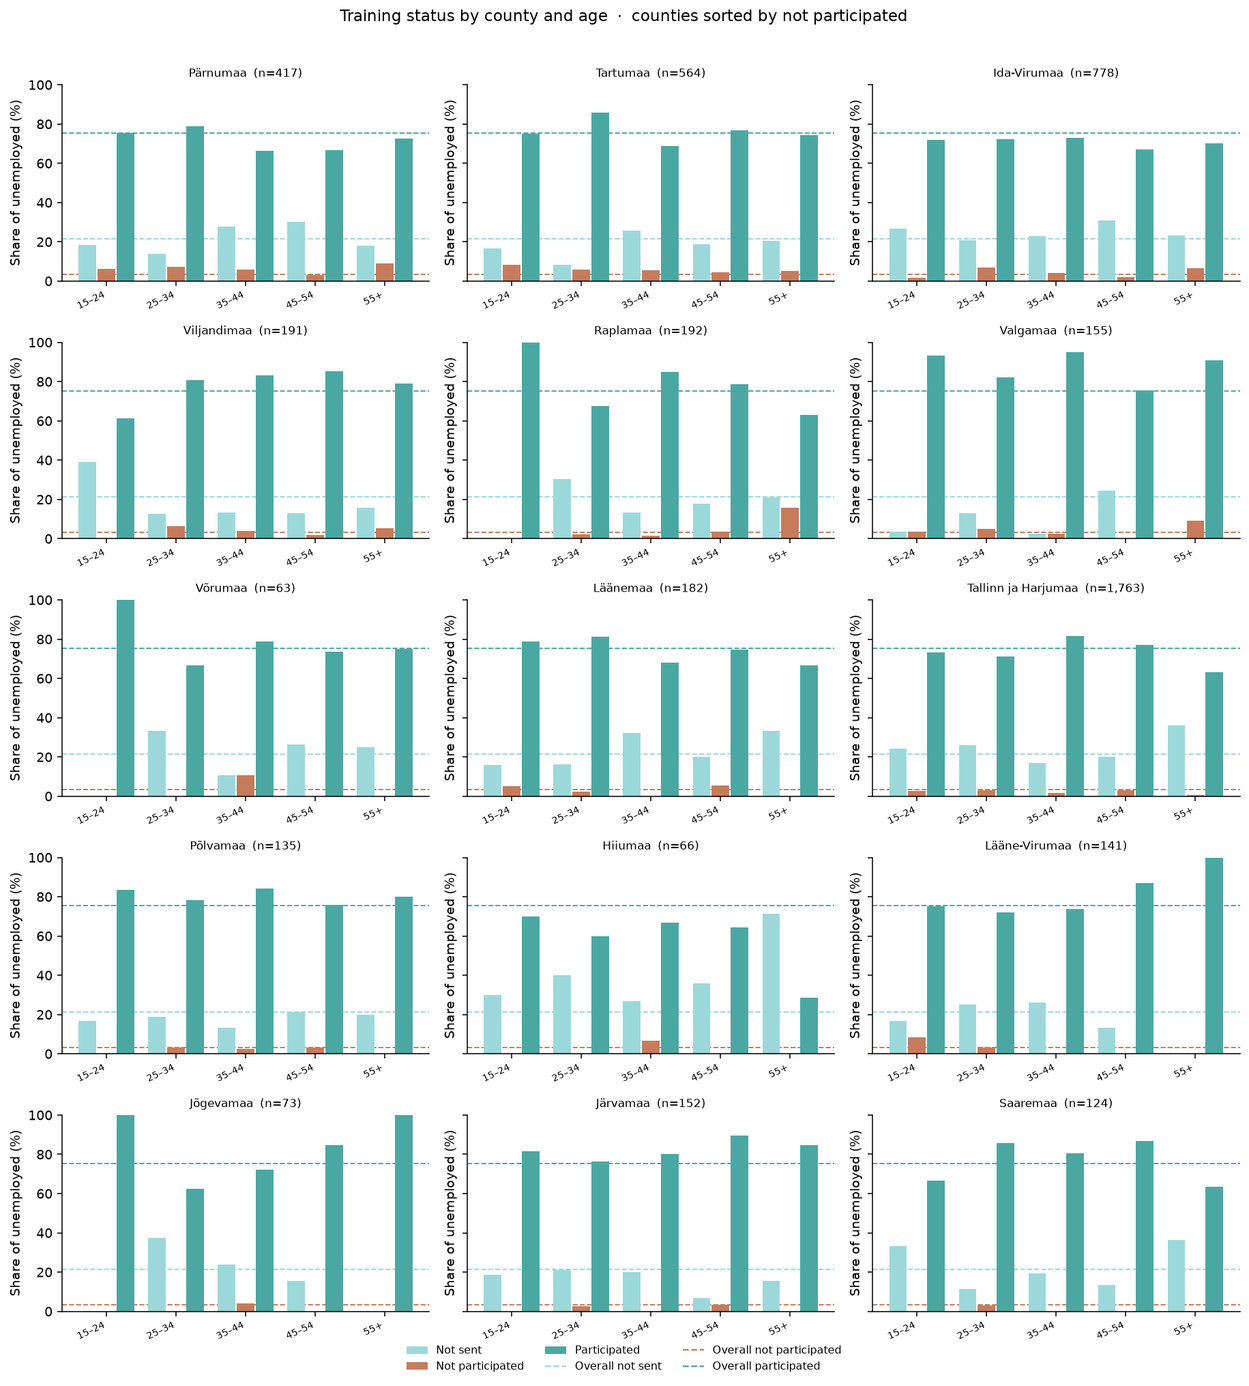
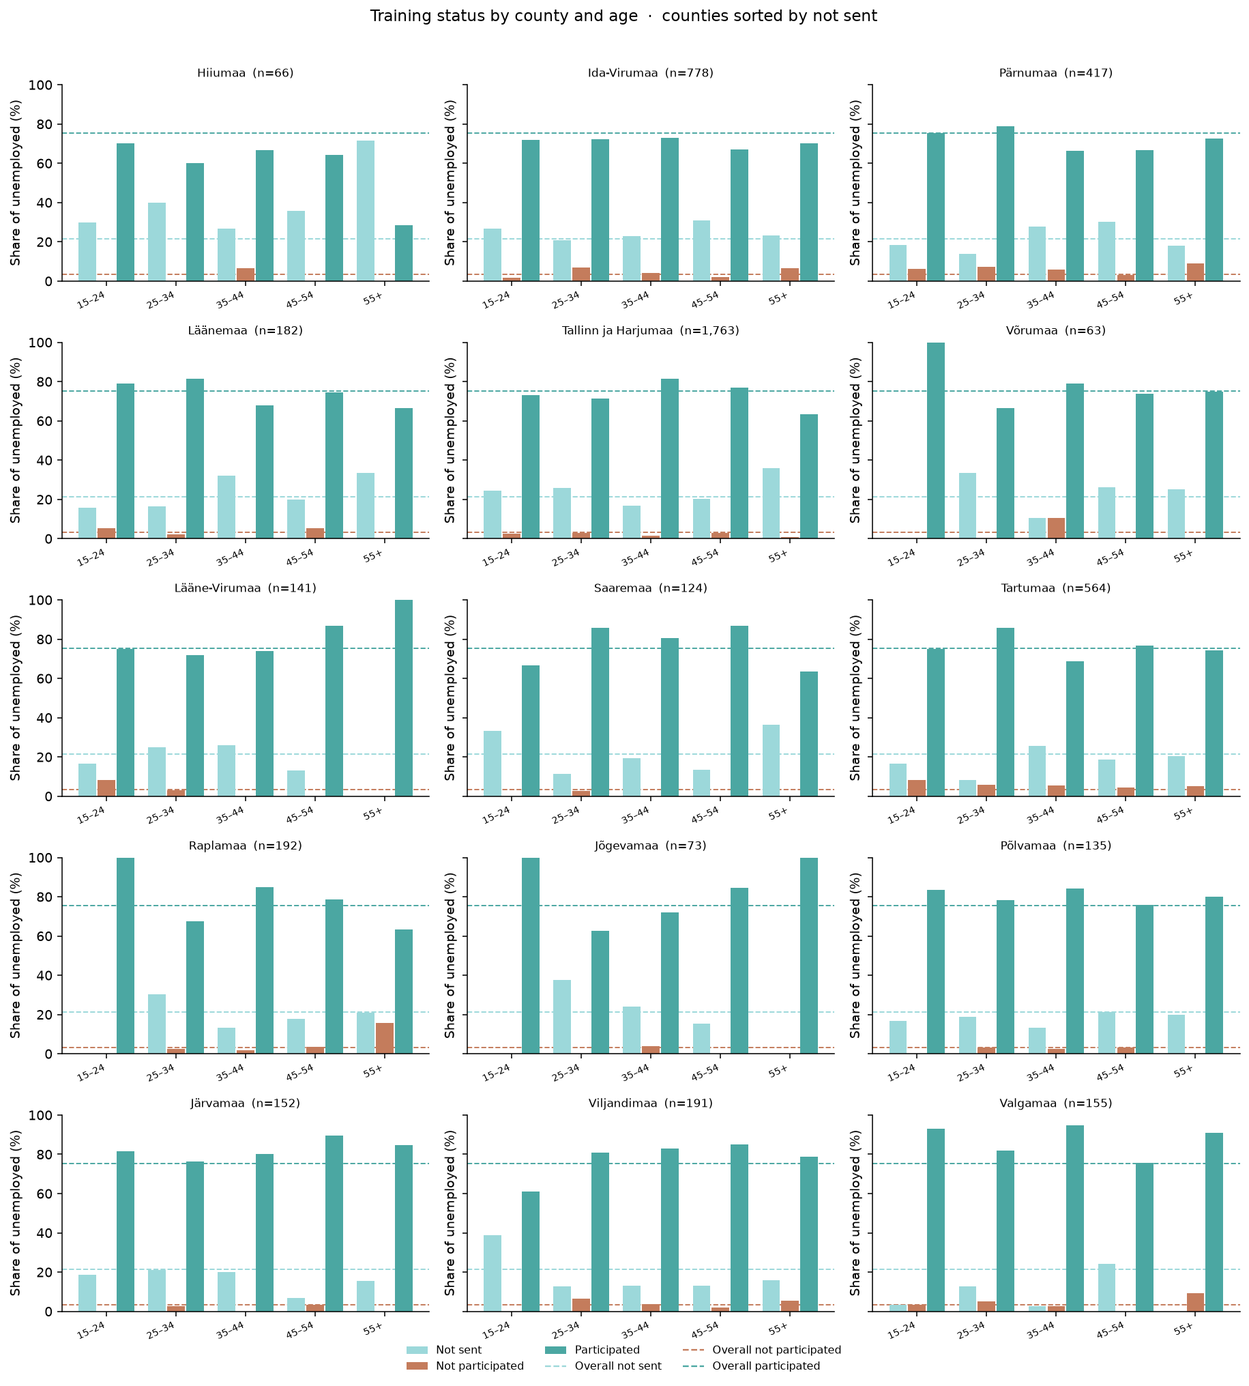
Sort the training-status facet charts by not-sent share and add an age-by-sex figure so the access gap for women 55+ is visible in the same three-status layout.

diff --git a/src/analysis/training_status_charts.py b/src/analysis/training_status_charts.py
@@ -41,8 +41,8 @@ STATUS_TICKS = {
     STATUS_NOT_PARTICIPATED: "Not part.",
     STATUS_PARTICIPATED: "Particip.",
 }
-SORT_STATUS = STATUS_NOT_PARTICIPATED
-SORT_COL = "pct_not_participated"
+SORT_STATUS = STATUS_NOT_SENT
+SORT_COL = "pct_not_sent"
 
 plt.rcParams.update(
     {
@@ -167,29 +167,33 @@ def plot_status_facets(
 
 def plot_cross_facets(
     long_df: pd.DataFrame,
-    county_order: list[str],
+    panel_order: list[str],
     inner_order: list[str],
     overall_pct: dict[str, float],
     title: str,
     filename: str,
+    ncols: int = 3,
+    figsize: tuple[float, float] | None = None,
 ) -> Path:
-    """County panels; inside each panel, grouped bars by a demographic."""
+    """One panel per group_a value; inside each panel, grouped bars by group_b."""
     PNG_DIR.mkdir(parents=True, exist_ok=True)
-    n_panels = len(county_order)
-    ncols = 3
+    n_panels = len(panel_order)
+    ncols = min(ncols, n_panels)
     nrows = ceil(n_panels / ncols)
-    fig, axes = plt.subplots(nrows, ncols, figsize=(13.2, 2.55 * nrows + 1.2), sharey=True)
-    axes_list = list(axes.ravel())
+    if figsize is None:
+        figsize = (13.2, 2.55 * nrows + 1.2)
+    fig, axes = plt.subplots(nrows, ncols, figsize=figsize, sharey=True)
+    axes_list = [axes] if n_panels == 1 else list(axes.ravel())
     colors = [STATUS_COLORS[s] for s in STATUS_ORDER]
     n_inner = len(inner_order)
     n_status = len(STATUS_ORDER)
     cluster_w = 0.82
     bar_w = cluster_w / n_status
 
-    for i, county in enumerate(county_order):
+    for i, panel in enumerate(panel_order):
         ax = axes_list[i]
-        sub = long_df.loc[long_df["group_a"].astype(str) == county]
-        n_county = int(sub.groupby("group_b", observed=True)["n_group"].first().sum())
+        sub = long_df.loc[long_df["group_a"].astype(str) == panel]
+        n_panel = int(sub.groupby("group_b", observed=True)["n_group"].first().sum())
         for j, inner in enumerate(inner_order):
             cell = sub.loc[sub["group_b"].astype(str) == str(inner)]
             n_cell = int(cell["n_group"].iloc[0]) if not cell.empty else 0
@@ -203,7 +207,7 @@ def plot_cross_facets(
         _style_panel(ax, overall_pct)
         ax.set_xticks(range(n_inner))
         ax.set_xticklabels([str(v) for v in inner_order], fontsize=7, rotation=25, ha="right")
-        ax.set_title(f"{county}  (n={n_county:,})", fontsize=8.5)
+        ax.set_title(f"{panel}  (n={n_panel:,})", fontsize=8.5)
 
     _hide_extra(axes_list, n_panels)
     fig.suptitle(title, fontsize=12, y=1.01)
@@ -252,6 +256,7 @@ def write_facet_notes(
         "",
         "Within-county figures use the same county order and the same overall reference lines.",
         "Inside those panels, bars are still the three statuses; clusters are sex or age group.",
+        "Age × sex figure: age-group panels sorted by not-sent share; clusters inside are sex.",
     ]
     path = TXT_DIR / "training_status_facets.txt"
     path.write_text("\n".join(lines) + "\n", encoding="utf-8")
@@ -283,7 +288,7 @@ def run_training_status_charts(
         "county": plot_status_facets(
             by_county,
             overall_pct,
-            "Training status by county  ·  panels sorted by not participated",
+            "Training status by county  ·  panels sorted by not sent",
             "training_status_facet_county.png",
             ncols=3,
             figsize=(11.5, 14.2),
@@ -291,7 +296,7 @@ def run_training_status_charts(
         "sex": plot_status_facets(
             by_sex,
             overall_pct,
-            "Training status by sex  ·  panels sorted by not participated",
+            "Training status by sex  ·  panels sorted by not sent",
             "training_status_facet_sex.png",
             ncols=2,
             figsize=(8.4, 4.6),
@@ -299,7 +304,7 @@ def run_training_status_charts(
         "age": plot_status_facets(
             by_age,
             overall_pct,
-            "Training status by age group  ·  panels sorted by not participated",
+            "Training status by age group  ·  panels sorted by not sent",
             "training_status_facet_age.png",
             ncols=5,
             figsize=(13.8, 4.8),
@@ -309,7 +314,7 @@ def run_training_status_charts(
             county_order,
             ["mees", "naine"],
             overall_pct,
-            "Training status by county and sex  ·  counties sorted by not participated",
+            "Training status by county and sex  ·  counties sorted by not sent",
             "training_status_facet_county_sex.png",
         ),
         "county_age": plot_cross_facets(
@@ -317,7 +322,7 @@ def run_training_status_charts(
             county_order,
             list(AGE_LABELS),
             overall_pct,
-            "Training status by county and age  ·  counties sorted by not participated",
+            "Training status by county and age  ·  counties sorted by not sent",
             "training_status_facet_county_age.png",
         ),
     }

diff --git a/src/analysis/training_status_age_sex.py b/src/analysis/training_status_age_sex.py
@@ -1,0 +1,97 @@
+"""Training status by age group and sex."""
+
+from __future__ import annotations
+
+from pathlib import Path
+
+import pandas as pd
+
+from src.analysis.sent_share import AGE_LABELS
+from src.analysis.training_status import (
+    STATUS_ORDER,
+    assign_training_status,
+    breakdown_table,
+    cross_breakdown,
+    overall_table,
+)
+from src.analysis.training_status_charts import (
+    _overall_pct,
+    _sort_groups,
+    plot_cross_facets,
+)
+
+PROJECT_ROOT = Path(__file__).resolve().parents[2]
+TXT_DIR = PROJECT_ROOT / "output" / "txt"
+
+
+def _pct(value: float) -> str:
+    if pd.isna(value):
+        return "   NA"
+    return f"{100 * value:5.1f}%"
+
+
+def write_age_sex_table(long_df: pd.DataFrame, age_order: list[str]) -> Path:
+    TXT_DIR.mkdir(parents=True, exist_ok=True)
+    lines = [
+        "Training status by age group and sex",
+        "Denominator: unemployed people in that age × sex cell.",
+        "Age-group panels in the figure are sorted by not-sent share, highest first.",
+        "",
+        f"{'age':<8} {'sex':<8} {'n':>6} "
+        f"{'not sent':>9} {'%':>7} "
+        f"{'not part.':>9} {'%':>7} "
+        f"{'particip.':>9} {'%':>7}",
+    ]
+    for age in age_order:
+        for sex in ("mees", "naine"):
+            cell = long_df.loc[
+                (long_df["group_a"].astype(str) == age)
+                & (long_df["group_b"].astype(str) == sex)
+            ]
+            if cell.empty:
+                continue
+            n = int(cell["n_group"].iloc[0])
+            counts = {
+                row.status: (int(row.n), float(row.pct_within_group))
+                for row in cell.itertuples(index=False)
+            }
+            lines.append(
+                f"{age:<8} {sex:<8} {n:>6,} "
+                f"{counts['not sent'][0]:>9,} {_pct(counts['not sent'][1]):>7} "
+                f"{counts['not participated'][0]:>9,} {_pct(counts['not participated'][1]):>7} "
+                f"{counts['participated'][0]:>9,} {_pct(counts['participated'][1]):>7}"
+            )
+    path = TXT_DIR / "training_status_by_age_sex.txt"
+    path.write_text("\n".join(lines) + "\n", encoding="utf-8")
+    return path
+
+
+def run_training_status_age_sex(
+    unemployed: pd.DataFrame | None = None,
+    trainings: pd.DataFrame | None = None,
+) -> dict[str, Path]:
+    df = assign_training_status(unemployed, trainings)
+    overall_pct = _overall_pct(overall_table(df))
+    by_age = breakdown_table(df, "age_group", group_order=list(AGE_LABELS))
+    age_order = _sort_groups(by_age)
+    long_df = cross_breakdown(df, "age_group", "Sugu", "age_group", "Sugu")
+    TXT_DIR.mkdir(parents=True, exist_ok=True)
+    csv_path = TXT_DIR / "training_status_by_age_sex.csv"
+    long_df.to_csv(csv_path, index=False, encoding="utf-8")
+    txt_path = write_age_sex_table(long_df, age_order)
+    png_path = plot_cross_facets(
+        long_df,
+        age_order,
+        ["mees", "naine"],
+        overall_pct,
+        "Training status by age group and sex  ·  age panels sorted by not sent",
+        "training_status_facet_age_sex.png",
+        ncols=5,
+        figsize=(14.2, 5.2),
+    )
+    return {"csv": csv_path, "txt": txt_path, "png": png_path}
+
+
+if __name__ == "__main__":
+    paths = run_training_status_age_sex()
+    print("Wrote", paths["png"])

diff --git a/main.py b/main.py
@@ -15,6 +15,7 @@ from src.analysis.insights import run_insights_analysis
 from src.analysis.monthly_training import run_monthly_training_analysis
 from src.analysis.sent_share import run_sent_share_analysis
 from src.analysis.training_status import run_training_status_analysis
+from src.analysis.training_status_age_sex import run_training_status_age_sex
 from src.analysis.training_status_charts import run_training_status_charts
 from src.inspect.eda import run_eda
 from src.load_data import load_raw_data
@@ -22,37 +23,40 @@ from src.load_data.download import download_raw_data
 
 
 def main() -> None:
-    print("1/10 Download / ensure raw data")
+    print("1/11 Download / ensure raw data")
     download_raw_data()
 
-    print("2/10 Load tables")
+    print("2/11 Load tables")
     unemployed, trainings = load_raw_data()
     print(f"   töötud:     {unemployed.shape[0]:,} rows × {unemployed.shape[1]} cols")
     print(f"   koolitused: {trainings.shape[0]:,} rows × {trainings.shape[1]} cols")
 
-    print("3/10 Exploratory data analysis")
+    print("3/11 Exploratory data analysis")
     run_eda()
 
-    print("4/10 Monthly sent vs participated")
+    print("4/11 Monthly sent vs participated")
     run_monthly_training_analysis()
 
-    print("5/10 Share sent vs not sent to training")
+    print("5/11 Share sent vs not sent to training")
     run_sent_share_analysis()
 
-    print("6/10 Completion vs dropout among participants")
+    print("6/11 Completion vs dropout among participants")
     run_completion_share_analysis()
 
-    print("7/10 Patterns and interactions")
+    print("7/11 Patterns and interactions")
     run_insights_analysis()
 
-    print("8/10 Unemployment length vs training")
+    print("8/11 Unemployment length vs training")
     run_duration_impact_analysis()
 
-    print("9/10 Training status of unemployed people")
+    print("9/11 Training status of unemployed people")
     run_training_status_analysis()
 
-    print("10/10 Training-status facet charts")
+    print("10/11 Training-status facet charts")
     run_training_status_charts()
+
+    print("11/11 Training status by age group and sex")
+    run_training_status_age_sex()
 
     print("Done.")
     print("   text:    output/txt")

diff --git a/src/analysis/__init__.py b/src/analysis/__init__.py
@@ -7,6 +7,7 @@ __all__ = [
     "run_duration_impact_analysis",
     "run_training_status_analysis",
     "run_training_status_charts",
+    "run_training_status_age_sex",
 ]
 
 
@@ -42,4 +43,8 @@ def __getattr__(name: str):
         from .training_status_charts import run_training_status_charts
 
         return run_training_status_charts
+    if name == "run_training_status_age_sex":
+        from .training_status_age_sex import run_training_status_age_sex
+
+        return run_training_status_age_sex
     raise AttributeError(f"module {__name__!r} has no attribute {name!r}")

diff --git a/ANALYSIS.md b/ANALYSIS.md
@@ -597,39 +597,47 @@ Once someone is sent, **card vs no card does not change the take-up rate**. The 
 
 ## 16. Faceted comparison of the three training statuses
 
-**What was done.** The section 15 tables were drawn as **small-multiple bar charts**. Each panel is one group. The three bars inside a panel are **not sent**, **not participated**, and **participated**. Colour is fixed across every panel (not sent `#9cd8da`, not participated `#c47c5c`, participated `#4ba7a2`). The y-axis is **0–100%** on every panel. Panels are **sorted by not-participated share**, highest first. Dashed lines in each panel are the **overall shares of all unemployed**: not sent **21.4%**, not participated **3.3%**, participated **75.3%**.
+**What was done.** The section 15 tables were drawn as **small-multiple bar charts**. Each panel is one group. The three bars inside a panel are **not sent**, **not participated**, and **participated**. Colour is fixed across every panel (not sent `#9cd8da`, not participated `#c47c5c`, participated `#4ba7a2`). The y-axis is **0–100%** on every panel. Panels are **sorted by not-sent share**, highest first. Dashed lines in each panel are the **overall shares of all unemployed**: not sent **21.4%**, not participated **3.3%**, participated **75.3%**.
 
-The same structure was used for **county**, **sex**, and **age**. Two further figures keep county as the panel and put **sex** or **age** as bar clusters inside the panel, so the three statuses can be compared across demographics *within* counties.
+The same structure was used for **county**, **sex**, and **age**. Two further figures keep county as the panel and put **sex** or **age** as bar clusters inside the panel. A separate script draws **age × sex**: age-group panels (same sort) with men and women as clusters inside each panel.
 
-Code: `src/analysis/training_status_charts.py`. Notes: [output/txt/training_status_facets.txt](output/txt/training_status_facets.txt). Cross-tab CSVs: [training_status_by_county_sex.csv](output/txt/training_status_by_county_sex.csv), [training_status_by_county_age.csv](output/txt/training_status_by_county_age.csv).
+Code: `src/analysis/training_status_charts.py`, `src/analysis/training_status_age_sex.py`. Notes: [output/txt/training_status_facets.txt](output/txt/training_status_facets.txt). Cross-tab CSVs: [training_status_by_county_sex.csv](output/txt/training_status_by_county_sex.csv), [training_status_by_county_age.csv](output/txt/training_status_by_county_age.csv), [training_status_by_age_sex.csv](output/txt/training_status_by_age_sex.csv).
 
 ### County
 
 ![Training status by county](output/png/analysis/training_status_facet_county.png)
 
-County order (not participated, high to low): Pärnumaa and Tartumaa **5.5%**, then Ida-Virumaa 4.4%, down to Saaremaa **0.8%**. The brown bar stays small everywhere; the eye is pulled by the **not-sent** bar instead. **Hiiumaa** sits well above the 21.4% not-sent line (37.9%) and well below the 75.3% participated line (60.6%). **Valgamaa** is the opposite (10.3% not sent, 86.5% participated) even though it is mid-pack on non-participation (3.2%). Large counties (Tallinn ja Harjumaa, Ida-Virumaa) hug the overall lines.
+County order (not sent, high to low): **Hiiumaa 37.9%**, Ida-Virumaa 25.1%, Pärnumaa 23.7%, … down to **Valgamaa 10.3%**. Sorting on access puts the outlier first: Hiiumaa is well above the 21.4% not-sent line and well below the 75.3% participated line (60.6%). Valgamaa is the opposite (86.5% participated). Large counties sit near the overall lines (Tallinn ja Harjumaa 22.4% not sent). The brown not-participated bar stays small in every panel; Tartumaa and Pärnumaa still show the highest non-starts (5.5%) but they are no longer at the front.
 
 ### Sex
 
 ![Training status by sex](output/png/analysis/training_status_facet_sex.png)
 
-**Not sent** is on the overall line for both sexes (21.2% men, 21.5% women). **Not participated** is the split: men **4.2%** (above the 3.3% line), women **2.3%** (below it). Participated is the mirror of that (74.5% vs 76.2%).
+**Not sent** is on the overall line for both sexes (women **21.5%**, men **21.2%**), so sorting by not sent barely changes the order. **Not participated** is the split: men **4.2%** (above the 3.3% line), women **2.3%** (below it). Participated is the mirror of that (74.5% vs 76.2%).
 
 ### Age group
 
 ![Training status by age group](output/png/analysis/training_status_facet_age.png)
 
-Sorted by non-participation, **25–34** is first (4.3%) and **45–54** last (2.7%). The panel that stands off the reference lines is **55+**: not sent **25.9%**, participated **70.5%**. Other ages sit on the overall mix.
+Sorted by not sent, **55+** is first (**25.9%** not sent, **70.5%** participated). Other ages sit on the overall mix (not sent 20–22%). Non-participation is not what moves age; access is.
+
+### Age group and sex
+
+![Training status by age group and sex](output/png/analysis/training_status_facet_age_sex.png)
+
+Table: [training_status_by_age_sex.txt](output/txt/training_status_by_age_sex.txt). Age panels keep the not-sent sort; inside each panel the clusters are **mees** and **naine**.
+
+The only cell that clearly leaves the overall lines is **women 55+**: **31.2%** not sent (65 of 208) and **64.9%** participated. Men 55+ are on the national mix (21.1% not sent, 75.4% participated). Below 55, men and women have similar not-sent shares; men still have a slightly higher non-start rate (for example 25–34 men 5.2% vs women 3.3%). This is the same interaction as section 12, now in the three-status colours.
 
 ### Demographics within counties
 
 ![Training status by county and sex](output/png/analysis/training_status_facet_county_sex.png)
 
-The male non-start gap is not only a national average. **Pärnumaa men** are **8.3%** not participated (19 of 229) vs **2.1%** of Pärnumaa women (4 of 188). Tartumaa men 6.2%, Ida-Virumaa men 5.2%. Hiiumaa’s high not-sent share is both sexes (36% men, 39% women).
+Counties follow the same not-sent order as the county figure. **Pärnumaa men** are **8.3%** not participated (19 of 229) vs **2.1%** of Pärnumaa women (4 of 188). Tartumaa men 6.2%, Ida-Virumaa men 5.2%. Hiiumaa’s high not-sent share is both sexes (36% men, 39% women).
 
 Age within county: [training_status_facet_county_age.png](output/png/analysis/training_status_facet_county_age.png). Small counties have thin age cells (Hiiumaa n=66), so those bars move a lot. In larger counties the 55+ not-sent lift is visible but not a different story from the national age figure.
 
-**Conclusion.** Side-by-side panels confirm section 15 by eye: **participation dominates every county**; **non-participation is a thin bar** that only Pärnumaa, Tartumaa, and some **men in those counties** push above the 3.3% line; **access (not sent)** is what really sorts places, with Hiiumaa high and Valgamaa low. Sex does not sort access; age 55+ does. Use the same colours and the same 0–100% scale when comparing any of these figures.
+**Conclusion.** Sorting panels by **not sent** makes access the first thing the eye sees: Hiiumaa high, Valgamaa low, **women 55+** the only age–sex cell well above the 21.4% line. Participation still dominates every panel. Non-participation stays a thin bar except among some men (Pärnumaa, Tartumaa). Sex does not sort access except at 55+. Use the same colours and the same 0–100% scale when comparing any of these figures.
 
 ---
 
@@ -659,7 +667,7 @@ These points follow from sections 1–16. They are patterns in this extract, not
 
 11. **Split the register into three statuses, not two** (section 15). Binary “sent vs not sent” hides that almost everyone who is sent also takes part. Non-participation is **165 people (3.3%)**, mostly `loobus`. County and age 55+ change **who is sent**; men have a higher non-start rate than women (4.2% vs 2.3%). Occupation and `Koolituskaart` do not change take-up among those already sent (~96%).
 
-12. **The faceted charts make the same split readable by eye** (section 16). Every county panel is dominated by participated; the brown not-participated bar stays small except Pärnumaa and Tartumaa (both 5.5%, and Pärnumaa *men* 8.3%). Hiiumaa is the access outlier (37.9% not sent). Men sit above the 3.3% non-start line, women below it; 55+ sits above the 21.4% not-sent line. Compare panels on the shared 0–100% scale and the dashed overall lines, not on raw counts.
+12. **The faceted charts make the same split readable by eye** (section 16). Panels are sorted by **not sent**, so Hiiumaa leads (37.9%) and Valgamaa is last (10.3%). Every panel is still dominated by participated. The brown not-participated bar stays small except Pärnumaa and Tartumaa (both 5.5%, and Pärnumaa *men* 8.3%). **Women 55+** are the age–sex outlier (**31.2%** not sent vs 21.1% for men 55+). Compare panels on the shared 0–100% scale and the dashed overall lines, not on raw counts.
 
 Full numbers: [output/txt/insights.txt](output/txt/insights.txt), [output/txt/duration_impact.txt](output/txt/duration_impact.txt), [output/txt/training_status_overall.txt](output/txt/training_status_overall.txt), [output/txt/training_status_facets.txt](output/txt/training_status_facets.txt). Figures: [output/png/analysis](output/png/analysis).
 

diff --git a/docs/commands.md b/docs/commands.md
@@ -145,3 +145,11 @@ Create a separate script file to compute the distribution of unemployed individu
 ```text
 Create a faceted bar chart that shows, for each county, the percentage breakdown of unemployed people across the three training status categories (not sent to training, not participated, participants), so that county panels can be compared side by side. Each panel should represent one county, with bars inside the panel representing the three status categories, using consistent colors for the same category across all panels so patterns can be spotted by eye. Use the same y-axis scale across all panels so percentages are directly comparable between counties, and sort the panels by one of the categories, for example by the percentage of not participated, so that counties with the highest values appear first. Add a horizontal reference line in each panel showing the overall average percentage for that category across all counties, so it is easy to see which counties deviate from the average. Repeat the same faceted structure for sex and age group as additional breakdown dimensions, producing separate figures or an additional facet layer, so the same three status categories can be compared not only across counties but also across demographic subgroups within counties. Update also ANALYSIS.md, write that result under 16 and update Summary of actionable insights, which will be 17.
 ```
+
+---
+
+## 21. Facet charts sorted by not sent; age × sex
+
+```text
+ANALYSIS.md 16. Faceted comparison of the three training statuses - sort png graphs by 'not sent'. Create code file and output png for training status by age group and sex
+```

diff --git a/docs/process.md b/docs/process.md
@@ -73,3 +73,12 @@ Completed tasks, newest last.
 19. **Faceted training-status charts**
     - Added `src/analysis/training_status_charts.py`: county, sex, and age small multiples, plus county×sex and county×age, shared 0–100% scale, colours, and overall reference lines. Sorted by not-participated share.
     - Wrote figures in `output/png/analysis`, notes and cross-tab CSVs in `output/txt`. Inserted `ANALYSIS.md` section 16; moved the summary to 17 and added insight 12.
+
+20. **Check of src analysis code**
+    - Recomputed status, sent, monthly, duration, and completion figures from the raw tables and compared them to the module outputs. No src files were changed.
+
+## 2026-08-31
+
+21. **Facet charts sorted by not sent; age × sex**
+    - Sorted all training-status facet PNGs by not-sent share. Added `src/analysis/training_status_age_sex.py` and `training_status_facet_age_sex.png`.
+    - Updated `ANALYSIS.md` section 16 and insight 12. Hooked the new step into `main.py`.
